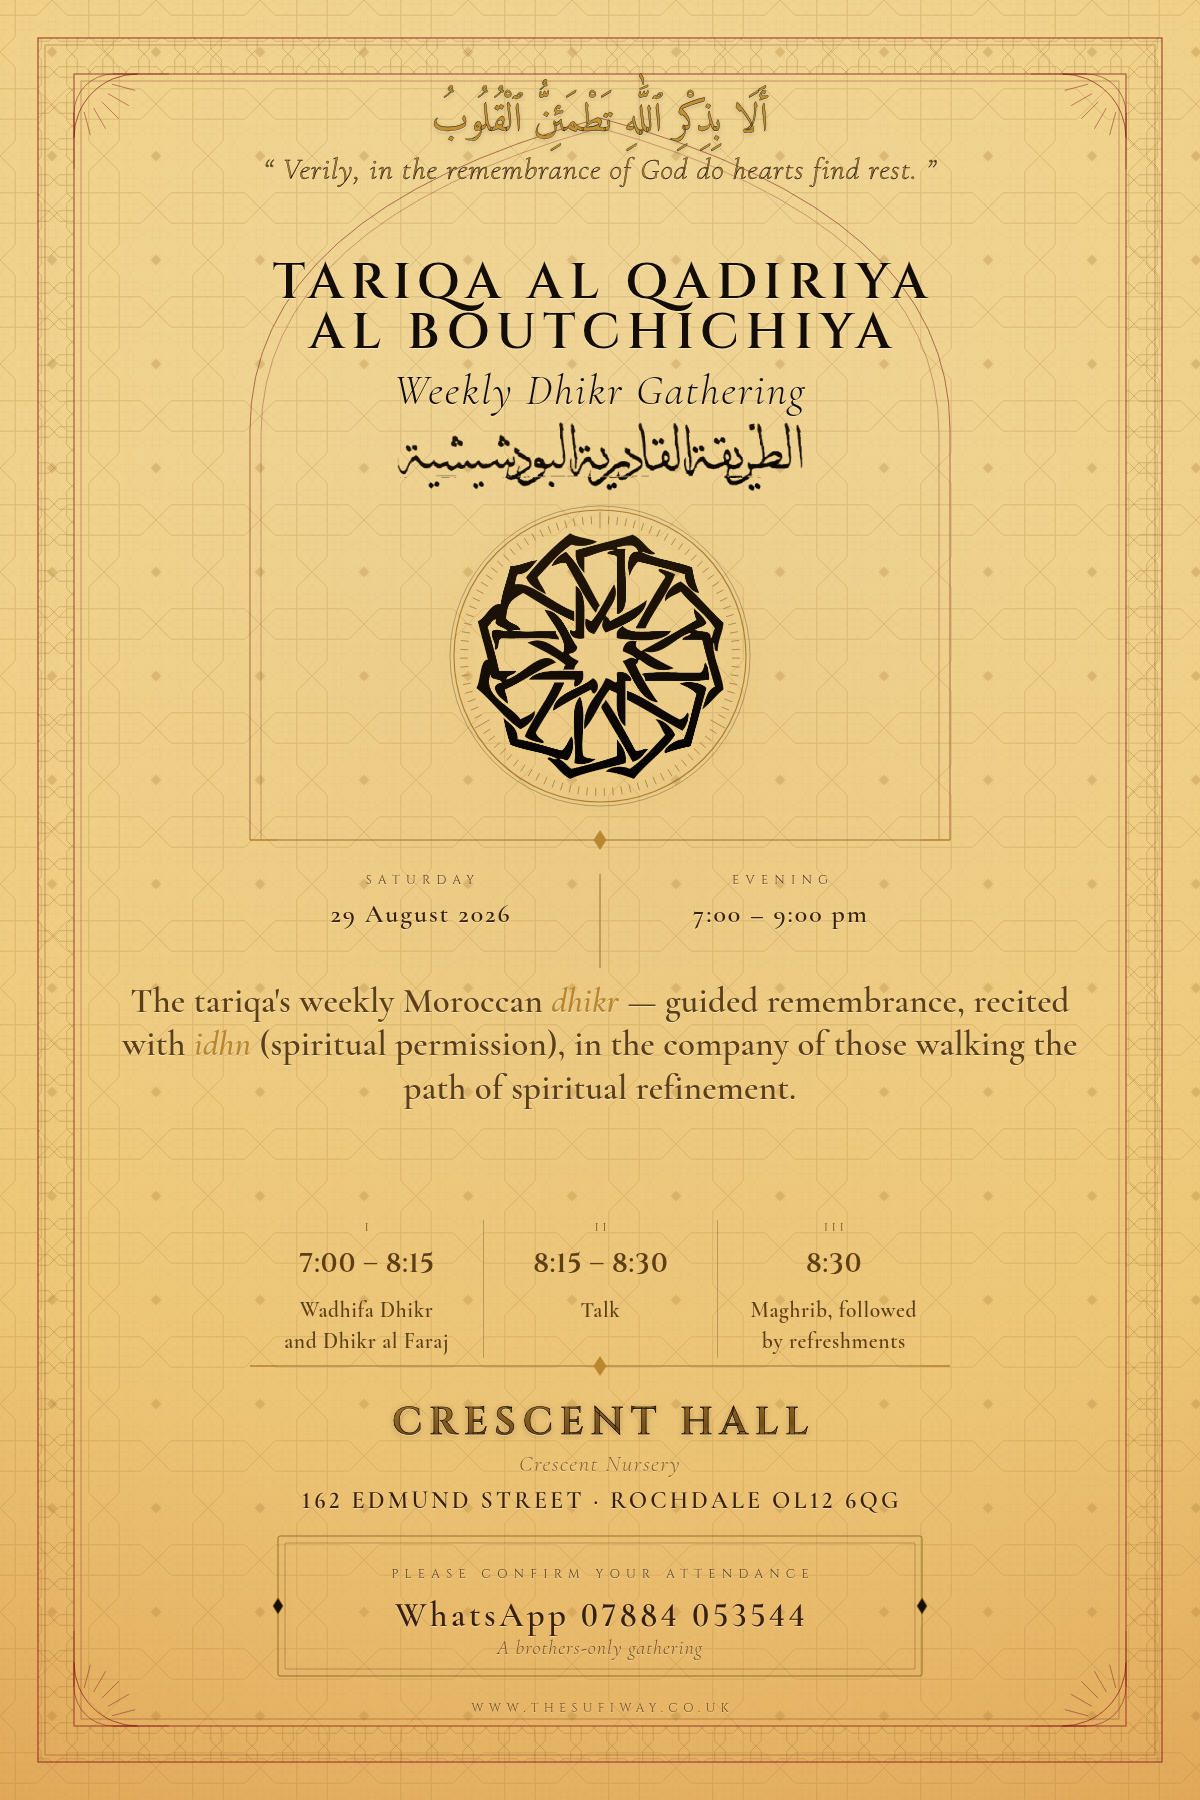
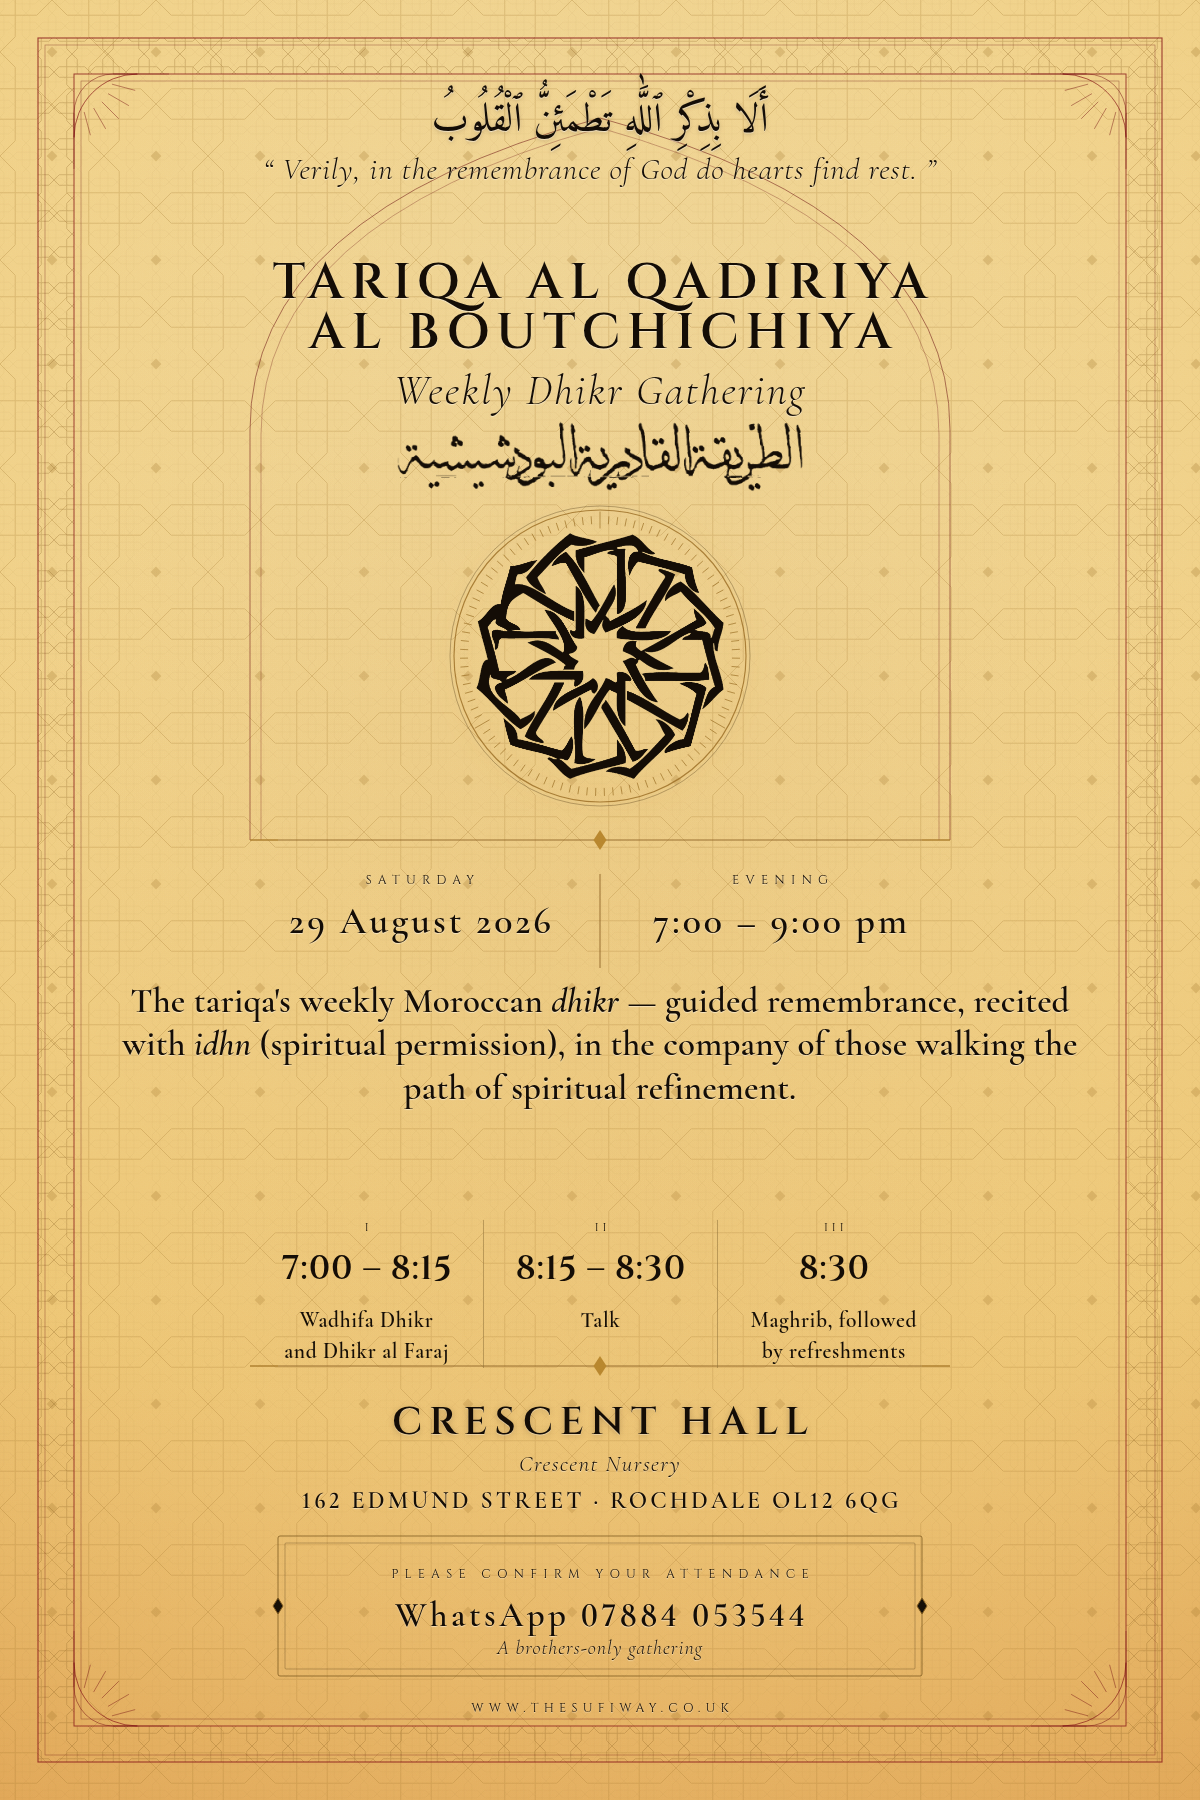
Sandstone: all text black, bigger programme times
Gold-on-terracotta still read as too low-contrast even with the outline
from the previous pass, so every reading token (ayah, gloss, title/t2,
lab, val, body, pt, pd, rn, vsub, addr, wa, note, url, gold_grad,
mark_grad) now points at one plain black ink. Only the red border stays
as a deliberate accent colour.

Enlarges the actual clock times to fill their columns: new val_size/
pt_size palette keys (default 26px/27px, unchanged for every other
colourway), 38px/34px on Sandstone.

Claude-Session: https://claude.ai/code/session_01W3RXmfEcLks2fUKiCDKANu

diff --git a/design/weekly-gathering/final/final.py b/design/weekly-gathering/final/final.py
@@ -143,12 +143,12 @@ html,body{{background:#000}}
   letter-spacing:.045em;color:{pal['t2']}}}
 .lab{{font-family:Cinzel,serif;font-weight:400;font-size:12.5px;letter-spacing:.5em;
   text-indent:.5em;color:{pal['lab']}}}
-.val{{font-family:Cormorant,serif;font-weight:{pal.get('val_weight',400)};font-size:26px;letter-spacing:.075em;
+.val{{font-family:Cormorant,serif;font-weight:{pal.get('val_weight',400)};font-size:{pal.get('val_size','26px')};letter-spacing:.075em;
   text-indent:.075em;color:{pal['val']}}}
 .body{{font-family:Cormorant,serif;font-weight:{pal.get('body_weight',400)};font-size:35px;line-height:1.24;
   letter-spacing:.005em;color:{pal['body']}}}
 .body em{{font-style:italic;color:{pal['gloss']}}}
-.pt{{font-variant-numeric:lining-nums;font-family:Cinzel,serif;font-weight:600;font-size:27px;letter-spacing:.03em;
+.pt{{font-variant-numeric:lining-nums;font-family:Cinzel,serif;font-weight:600;font-size:{pal.get('pt_size','27px')};letter-spacing:.03em;
   text-indent:.03em;color:{pal['pt']}}}
 .pd{{font-family:Cormorant,serif;font-weight:{pal.get('pd_weight',400)};font-size:21.5px;line-height:1.46;
   letter-spacing:.03em;color:{pal['pd']}}}
@@ -397,18 +397,19 @@ SANDSTONE.update(
     rule="#8A5F22", rule_lit="#B8862E",
     zh="#9C6F27", zf="#7E5A20", zstud="#9C6F27", zb="#8A5F22",
     scrim="230,180,110", scrim_mult=0.24, halo_mult=0.38, ground_op=0.0,
-    gold_grad="linear-gradient(178deg,#C1922F 0%,#9C6F27 26%,#734D1B 58%,#B8862E 82%,#8A5F22 100%)",
-    # the title/subtitle/wordmark/star — the poster's "middle" — go black instead
-    # of gold, for a bold graphic centrepiece against the terracotta ground.
+    # every reading text — title, subtitle, wordmark, star, ayah + translation,
+    # date/time, body, programme, venue and its details, WhatsApp, footer —
+    # in one plain black ink. Simplest possible read against the terracotta
+    # ground; only the outer border stays a deliberate accent colour (red).
+    gold_grad="linear-gradient(178deg,#140D06 0%,#140D06 100%)",
     title_cls="ink", title_color="#140D06",
-    mark_grad="linear-gradient(176deg,#241708 0%,#140D06 55%,#000000 100%)",
-    # the top ayah + its translation read as clearly, richly gold — with a
-    # thin black outline round the letterforms, since flat gold-on-terracotta
-    # was too low-contrast to read at a glance.
-    ayah="#C1922F", gloss="#B8862E", t2="#140D06", lab="#5C3E17", val="#3A210D",
-    gold_stroke="0.6px #140D06", gold_stroke_thin="0.4px #140D06",
-    body="#5C3E17", pt="#5C3E17", pd="#5C3E17", rn="#734D1B", vsub="#8A5F22",
-    addr="#3A210D", wa="#3A210D", note="#734D1B", url="#734D1B",
+    mark_grad="linear-gradient(176deg,#140D06 0%,#140D06 100%)",
+    ayah="#140D06", gloss="#140D06", t2="#140D06", lab="#140D06", val="#140D06",
+    body="#140D06", pt="#140D06", pd="#140D06", rn="#140D06", vsub="#140D06",
+    addr="#140D06", wa="#140D06", note="#140D06", url="#140D06",
+    # the actual clock times — the top event window and the three programme
+    # slots — enlarged to fill their columns rather than sitting small in them.
+    val_size="38px", pt_size="34px",
     halo0="#B8862E", halo1="#9C6F27", halo2="#7E5A20", halo3="#63451A",
     # the page border — outer frame, arch outline, corner flourishes — a rich red,
     # kept separate from hair3/hair4/hair5 so the star's own halo ring (which

diff --git a/design/weekly-gathering/final/README.md b/design/weekly-gathering/final/README.md
@@ -81,28 +81,37 @@ colourways changed):
   down (not remove) the warm glow and the pattern-hiding scrim to the much
   smaller doses a pale ground needs.
 
-Sandstone then picked up a three-zone colour split, on top of everything
-above:
+Sandstone briefly picked up a three-zone colour split (gold top, black
+middle, everything else untouched), then went fully black by request —
+gold-on-terracotta still read as too low-contrast even with the outline
+below, so every reading token (`ayah`, `gloss`, `t2`, `lab`, `val`, `body`,
+`pt`, `pd`, `rn`, `vsub`, `addr`, `wa`, `note`, `url`, plus `gold_grad` and
+`mark_grad`) now points at the same plain black ink. Only the border stays a
+deliberate accent colour (red) — everything that's actually text is one
+flat, maximally-legible black against the terracotta ground.
 
-- **Top** (the ayah + its English translation) — bright, unambiguous gold
-  (`ayah`/`gloss` tokens pushed to the gold family's brightest stops).
-- **Middle** (the English title, "Weekly Dhikr Gathering", the Arabic
-  wordmark, and the star medallion) — black instead of gold, a bold graphic
-  centrepiece against the terracotta ground. `title_block()` now takes an
-  optional `cls` (default `"gold"`, unchanged for every other colourway);
-  `build_hero(pal)` passes `pal.get('title_cls', 'gold')` so Sandstone alone
-  supplies `"ink"`, a new class reading `title_color`. The star and Arabic
-  wordmark share the `.mark` class, so pointing Sandstone's `mark_grad` at a
-  near-black gradient turns both black together.
-- **Everything else** (date/time, body copy, programme, venue, WhatsApp,
-  footer) — left exactly as it already was.
+The mechanism from the three-zone version is still there and still useful
+for a future colourway: `title_block()` takes an optional `cls` (default
+`"gold"`, unchanged for every other colourway); `build_hero(pal)` passes
+`pal.get('title_cls', 'gold')` so a colourway can supply `"ink"` (a class
+reading `title_color`) instead. The star and Arabic wordmark share the
+`.mark` class, so pointing a palette's `mark_grad` at a near-black gradient
+turns both black together — that's now Sandstone's permanent state rather
+than a title-only swap.
 
-The gold text (top ayah/translation, and "CRESCENT HALL" at the bottom,
-which still uses the shared `.gold` class) turned out to be low-contrast on
-its own against the terracotta ground — flat gold on orange. Fixed with a
-thin black `-webkit-text-stroke` outlined round the letterforms: new
-`gold_stroke`/`gold_stroke_thin` palette keys (default `"0 transparent"`,
-so no other colourway is affected), applied in `.gold`, `.ayah` and `.gloss`.
+The programme's actual clock times — the top event window and the three
+`I`/`II`/`III` slots — were enlarged to fill their columns: new `val_size`/
+`pt_size` palette keys (default `26px`/`27px`, unchanged elsewhere), set to
+`38px`/`34px` on Sandstone.
+
+Along the way, the gold text (top ayah/translation, and "CRESCENT HALL")
+turned out to be low-contrast on its own against the terracotta ground —
+flat gold on orange — and got a thin black `-webkit-text-stroke` outline as
+a fix (new `gold_stroke`/`gold_stroke_thin` palette keys, default
+`"0 transparent"` so no other colourway is affected). Sandstone no longer
+uses gold at all so the stroke is moot there today, but the keys — and the
+`-webkit-text-stroke` line in `.gold`/`.ayah`/`.gloss` — stay in place for
+any future colourway that keeps gold text on a light, low-contrast ground.
 
 The body paragraph was also rewritten again, still for members rather than
 newcomers but tighter — "held for its regular members" read as redundant
